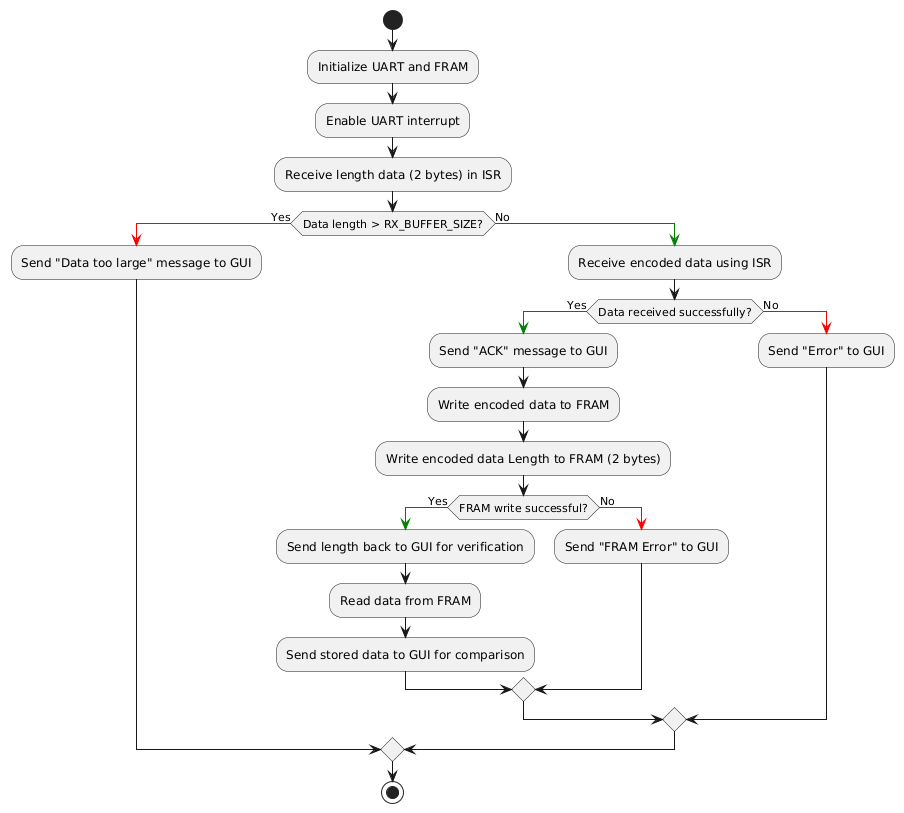
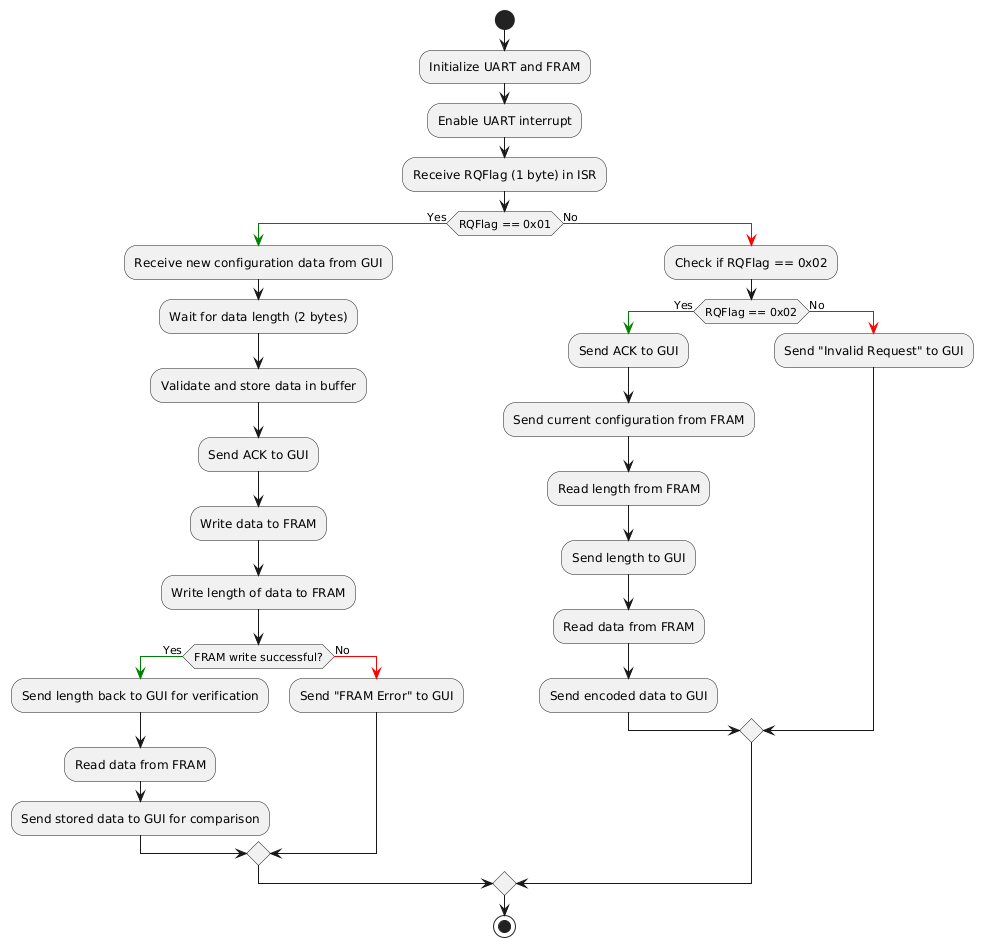
Modified README files and Updated images

diff --git a/proto/python/src/soil_power_sensor_protobuf/config/README.md b/proto/python/src/soil_power_sensor_protobuf/config/README.md
@@ -9,11 +9,13 @@ The application provides options to:
 - **Save configurations to a JSON file**
 - **Load previously saved configurations**
 - **Directly transmit settings to the device via UART**, using Protobuf for serialization.
+- **Load current configuration** directly from the device.
 
 ## Key Features
 
 - **Save and Load Configurations**: Save configurations to a JSON file named with the cell ID, or load an existing configuration.
 - **Real-time Configuration Transmission**: Settings are serialized using Protobuf when the "Send Configuration" button is clicked, then transmitted over UART to the STM32 device.
+- **Load Current Configuration**: Users can load the current configuration from the device by clicking the "Load Current Configuration" button, which reads the configuration stored in FRAM and displays it in the fields.
 - **Input Validation**: Ensures only valid data is entered, prompting error messages for any invalid fields to guide users.
 
 ## Installation
@@ -29,6 +31,28 @@ Run the application by executing the following command:
 ```bash
 python user_config.py
 ```
+
+## Opening the GUI from the Executable (No Python Required)
+
+If you don't have Python installed or prefer to use a pre-built executable, follow these steps to open the GUI from the desktop executable:
+
+**1- Open the Executable file path:**
+
+- The executable file can be found in the following path:
+
+```bash
+\proto\python\src\soil_power_sensor_protobuf\config\dist
+```
+
+**2- Run the Executable:**
+
+- Navigate to the directory where **userConfig.exe** is located.
+
+**3- Start Using the GUI:**
+
+- Once the executable is opened, the GUI will appear. You can now configure your device settings as usual without needing Python or any development tools.
+
+- The GUI will work on Windows, MacOS, and Linux platforms.
 
 ## Example JSON Configuration File
 
@@ -69,10 +93,31 @@ The following images show the GUI interface in different configurations:
 
 |**WiFi Upload Method**|**LoRa Upload Method**|
 |---------------------|-----------|
-|![User Configuration diagram](../images/user_config_GUI_WiFi.png)|![User Configuration diagram](../images/user_config_GUI_LoRa.png)|
+|![User Configuration diagram](../../../../../images/user_config_GUI_WiFi.png)|![User Configuration diagram](../../../../../images/user_config_GUI_LoRa.png)|
 
 ### GUI Flow Diagram
 
 The flow diagram below illustrates the general process and structure of the application:
 
-![User Configuration diagram](../images/GUI_flow_diagram.png)
+![User Configuration diagram](../../../../../images/GUI_flow_diagram.png)
+
+## User Manual
+
+### How to Use the GUI
+
+**1- Save Configuration:**
+
+- Fill in the necessary fields such as Logger ID, Cell ID, upload method, etc.
+Click on the **"Save"** button to save the configuration to a JSON file. The file will be named with the Cell ID as the filename.
+
+**2- Load Configuration:**
+
+- To load a previously saved configuration, click on the **"Load"** button. Browse to the desired JSON file and load it into the application.
+
+**3- Send Configuration to Device:**
+
+- After entering the configuration settings, click on the **"Send Configuration"** button to transmit the settings to the device via UART. The data will be serialized using Protobuf and sent to the device.
+
+**4- Load Current Configuration from Device:**
+
+- To read the current configuration from the device, click on the **"Load Current Configuration"** button. This retrieves the stored configuration from FRAM and populates the fields with the current values.

diff --git a/stm32/lib/userConfig/README.md b/stm32/lib/userConfig/README.md
@@ -8,20 +8,21 @@
 
 ## Overview
 
-The `userConfig` library initializes UART for interrupt-based data reception and handles incoming user configuration data. It writes and reads this data to and from the FRAM memory. The data length is stored alongside the encoded data in FRAM for easy retrieval.
+The `userConfig` library initializes UART for interrupt-based data reception and handles incoming user configuration data. It writes and reads this data to and from the FRAM memory. The data length is stored alongside the encoded data in FRAM for easy retrieval. Additionally, it supports sending the current configuration stored in FRAM back to the GUI.
 
 ## Features
 
 - **UART Data Reception:** Uses interrupt-driven and polling methods to receive configuration data.
 - **FRAM Data Storage:** Saves encoded configuration data in FRAM, along with its length.
 - **Acknowledgment Messages:** Sends acknowledgment (`ACK`) to indicate successful data receipt.
+- **Send Current Configuration:** Allows the STM32 to transmit the current configuration stored in FRAM back to the GUI.
 - **Data Verification:** Ensures received data fits within the RX buffer, with error messaging if exceeded.
 
 ## Code Flow Diagram
 
 ![STM32 Code Flow](../../../images/STM32_flow_diagram.png)
 
-The diagram illustrates the flow of code, from UART data reception to FRAM storage and acknowledgment transmission. It shows how the data is processed, validated, and stored in FRAM.
+The diagram illustrates the flow of code, from UART data reception to FRAM storage and acknowledgment transmission, and sending the current configuration. It shows how the data is processed, validated, and stored in FRAM.
 
 ## FRAM Memory Usage
 
@@ -48,13 +49,19 @@ To send and write user configuration data to FRAM, flash the `example_gui.c` fil
 pio run -e example_gui -t upload
 ```
 
-After uploading successfully, run the GUI application by entering:
+After uploading successfully, run the `GUI application` (Refer to the [GUI README](../../../proto/python/src/soil_power_sensor_protobuf/config/README.md) for detailed instructions on opening the GUI).
 
-```bash
-python user_config.py
-```
+Then enter your preferred configuration settings in the GUI. When sent successfully, the STM32 will respond with acknowledgment (ACK), confirming the data receipt. If the data saved in FRAM matches the data sent, a confirmation message will pop up indicating success.
 
-Enter your preferred configuration settings in the GUI. When sent successfully, the STM32 will respond with acknowledgment (ACK), confirming the data receipt. If the data saved in FRAM matches the data sent, a confirmation message will pop up indicating success.
+## Sending Current Configuration to the GUI
+
+To retrieve and send the current configuration stored in FRAM back to the GUI:
+
+1- Open the GUI application ([GUI README](../../../proto/python/src/soil_power_sensor_protobuf/config/README.md)).
+
+2- Click the "Load Current Configuration" button in the GUI.
+
+3- The STM32 will read the stored configuration from FRAM and send it to the GUI over UART. The fields in the GUI will populate with the retrieved values.
 
 ## Loading and Reading User Configuration from FRAM
 
